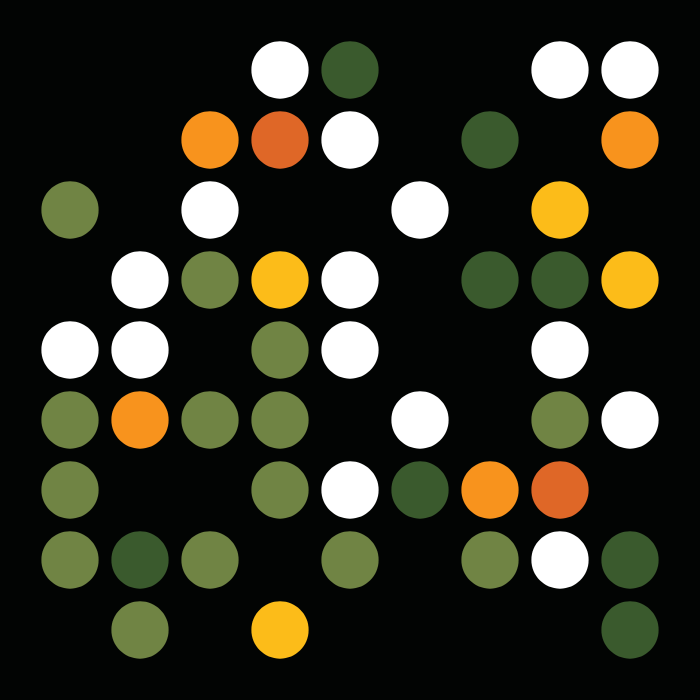
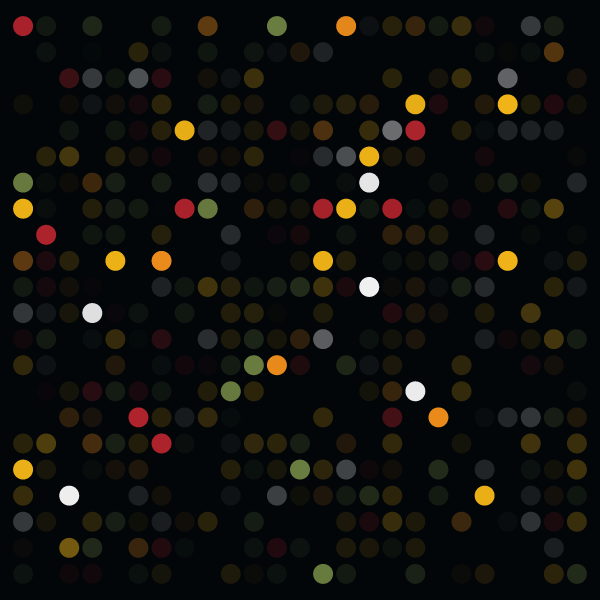
modified:   siliconreality.js 	modified:   specimens/1.png 	modified:   specimens/2.png 	deleted:    specimens/3.png 	deleted:    specimens/4.png 	deleted:    specimens/5.png 	deleted:    specimens/6.png deleted:    specimens/7.png

diff --git a/siliconreality.js b/siliconreality.js
@@ -1,4 +1,5 @@
-function randn_bm(min, max, skew) { // distribution with skewness function
+// distribution with skewness function
+function randn_bm(min, max, skew) {
     let u = 0, v = 0;
     while (u === 0) u = Math.random() //Converting [0,1) to (0,1)
     while (v === 0) v = Math.random()
@@ -26,9 +27,9 @@ function setup() {
 
     createCanvas(canvaspx, canvaspx)
     background(bg)
-    noLoop()
-    angleMode(DEGREES)
-    filter(BLUR)
+    
+    z = height/2
+    h = height/2
 }
 
 
@@ -40,7 +41,7 @@ function draw() {
     stroke(255)
     // rect(0,0, width, height) 
     strokeWeight(0) // reset stroke
-    
+
 
     let cl = []
     let rmax = 40
@@ -79,22 +80,29 @@ function draw() {
         for (row = 0; row < numrows - 2; row++) {
             if (p[col][row] === 1) {
                 color = random(cl)
-                
+
                 dist = Math.trunc(random(0, 1.1)) // choose transparency distribution skewness
                 if (dist === 1) {
-                    alpha = randn_bm(1, 255, 0.1) // closer to 255
+                    alpha = randn_bm(1, 255, 0.15) // closer to 255
                 } else {
-                    alpha = randn_bm(1, 255, 3.2)  // closer to 1
+                    alpha = randn_bm(1, 255, 2.5)  // closer to 1
                 }
                 color.setAlpha(alpha) //choose transparency
-                
+
                 fill(color)
-                circle(
-                    width / (numcols - 1) * (col + 1),
-                    height / (numrows - 1) * (row + 1),
-                    width / max(numcols, numrows) - (width / numcols * 0.1)
-                )
+                x = width / (numcols - 1) * (col + 1)
+                y = height / (numrows - 1) * (row + 1)
+                size = width / max(numcols, numrows) - (width / numcols * 0.1)
+                circle(x, y, size)
             }
         }
     }
+
+    
+    // fill(255,255,255,255)
+    // circle(z, h, 24);
+    // z = z + 1;
+    // h = h + 2;
 }
+
+
